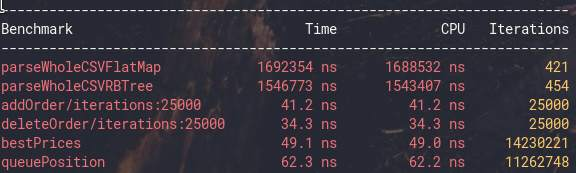
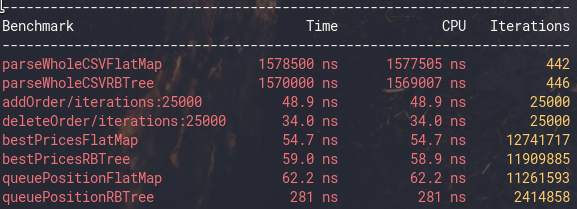
benchmark updates

Changed region(s): [[0.0, 0.0, 1.0, 1.0], [0.4375, 0.4624, 0.5938, 0.9827]]

diff --git a/tests/benchmark/benchmark.cpp b/tests/benchmark/benchmark.cpp
@@ -72,7 +72,7 @@ static void executeOrder(benchmark::State& state) {
 
 }
 
-static void bestPrices(benchmark::State& state) {
+static void bestPricesFlatMap(benchmark::State& state) {
   datafeed::BookHandler<datafeed::FlatQueueMap> book_handler;
   setupBook(book_handler);
   for (auto _ : state) {
@@ -81,8 +81,26 @@ static void bestPrices(benchmark::State& state) {
   book_handler.clear();
 }
 
-static void queuePosition(benchmark::State& state) {
+static void queuePositionFlatMap(benchmark::State& state) {
   datafeed::BookHandler<datafeed::FlatQueueMap> book_handler;
+  setupBook(book_handler);
+  for (auto _ : state) {
+    const auto position = book_handler.getQueuePosition(7427602921438737869);
+  }
+  book_handler.clear();
+}
+
+static void bestPricesRBTree(benchmark::State& state) {
+  datafeed::BookHandler<datafeed::RBTreeQueueMap> book_handler;
+  setupBook(book_handler);
+  for (auto _ : state) {
+    const auto best_prices = book_handler.getTopOfBook();
+  }
+  book_handler.clear();
+}
+
+static void queuePositionRBTree(benchmark::State& state) {
+  datafeed::BookHandler<datafeed::RBTreeQueueMap> book_handler;
   setupBook(book_handler);
   for (auto _ : state) {
     const auto position = book_handler.getQueuePosition(7427602921438737869);
@@ -94,7 +112,9 @@ BENCHMARK(parseWholeCSVFlatMap);
 BENCHMARK(parseWholeCSVRBTree);
 BENCHMARK(addOrder)->Iterations(25000);
 BENCHMARK(deleteOrder)->Iterations(25000);
-BENCHMARK(bestPrices);
-BENCHMARK(queuePosition);
+BENCHMARK(bestPricesFlatMap);
+BENCHMARK(bestPricesRBTree);
+BENCHMARK(queuePositionFlatMap);
+BENCHMARK(queuePositionRBTree);
 
 BENCHMARK_MAIN();

diff --git a/README.md b/README.md
@@ -30,7 +30,11 @@ cd benchmark
 
 ## Benchmarks
 
-Below are some early benchmark numbers. I think the absolute values of these benchmarks are less important than the values relative to one another: the flat map implementation provides a ~15% speed-up, whereas finding an order's queue position is quite slow relative to other operations, due to the O(N) search of a linked-list - a lot of cache misses.
+Below are the results of some rough benchmarking that I did, with suprising results.
+
+I expected the flat map to provide a noticable speed-up relative to the RB-tree of the STL. Instead, they're similar. Needs investigation.
+
+The flat map is expectedly faster in retrieving queue positions, since this requires iterating through the map.
 
 <p align="center">
   <img src="https://github.com/Hnodomar/technical-question/blob/main/description/benchmarks.jpg" alt="Benchmarks"/>
